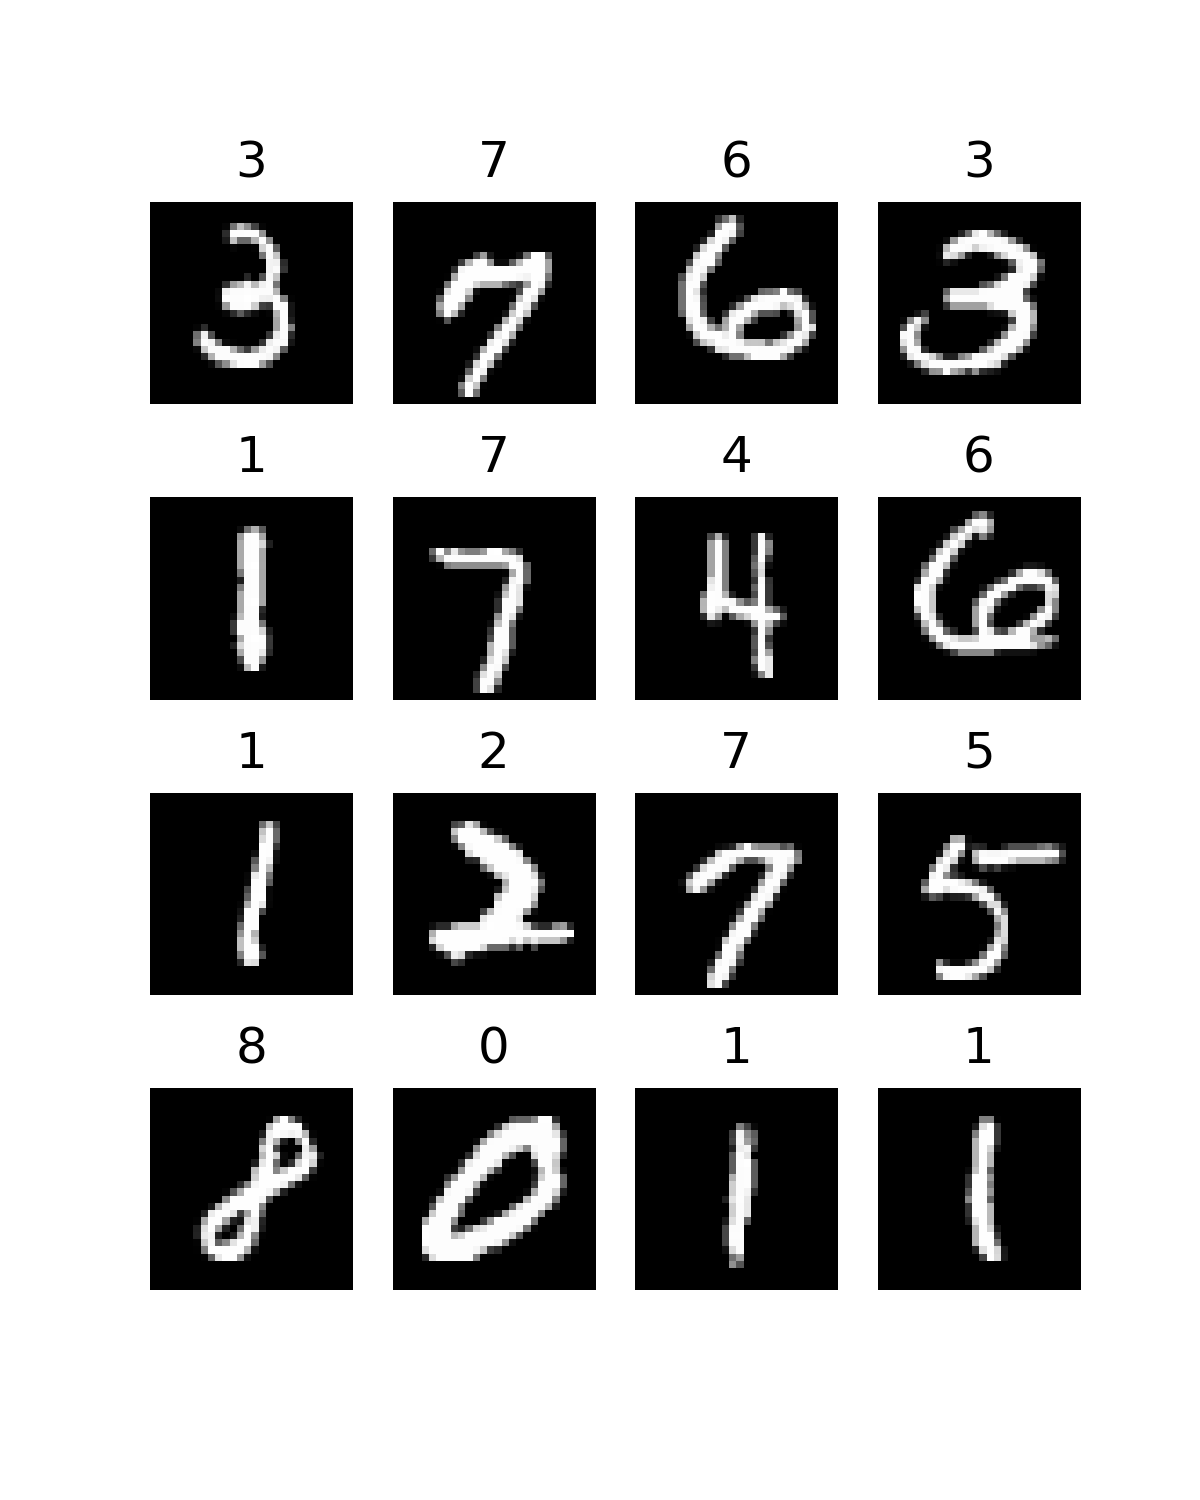
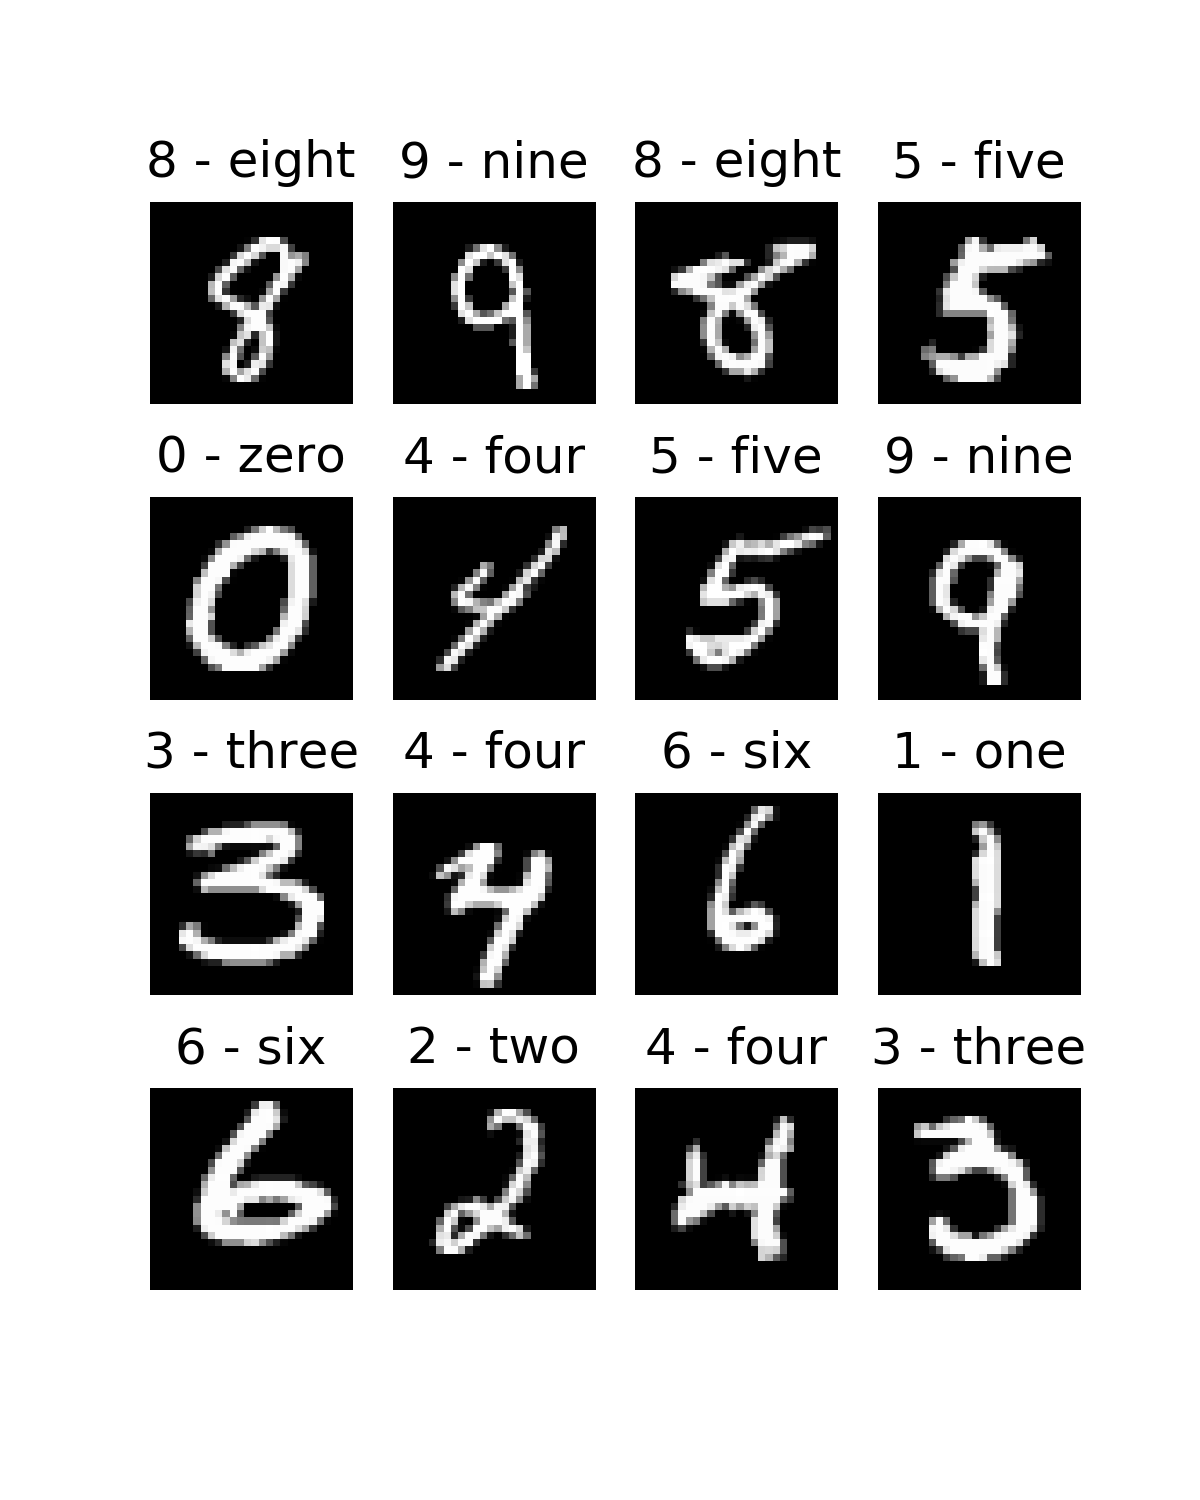
[2020-10-19] 이미지 수정 및 가독성 개선

diff --git a/_posts/2020-10-18-GAN-2-implementation-GAN.md b/_posts/2020-10-18-GAN-2-implementation-GAN.md
@@ -20,12 +20,12 @@ use_math: true
 
 > 이전 포스팅에서는 Generative Adversarial Network의 기본 알고리즘인 GAN과 DCGAN을 정리했습니다.  
 > 이번 포스팅에서는 PyTorch를 이용해 GAN 모델을 직접 구현해보도록 하겠습니다.
- 
+
 ## 구성
 
 본 구현에서는 단순한 이미지셋인 MNIST를 사용하여 GAN을 학습시키고자 합니다. GAN 모델은 Generative model \\(G\\)과 Discriminative model \\(D\\)를 번갈아가면서 업데이트해나갑니다.
 
-본 구현 코드의 구성은 아래와 같습니다.
+본 포스트의 구성은 아래와 같습니다.
 
 1. Load libraries
 2. MNIST dataset download
@@ -76,6 +76,18 @@ print('torchvision: ' + torchvision.__version__)
 > torch: 1.5.1  
 > torchvision: 0.6.1
 
+결과 재현을 위해 random seed를 설정합니다.
+```python
+import random
+
+# Set random seed for reproducibility
+manualSeed = 2020
+#manualSeed = random.randint(1, 10000) # use if you want new results
+print("Random Seed: ", manualSeed)
+random.seed(manualSeed)
+torch.manual_seed(manualSeed);
+```
+
 GPU를 사용할지 선택합니다. 사용 가능한 GPU가 있다면 `device` 변수에 *cuda*가, 없다면 *cpu*가 표시됩니다.
 ```python
 is_cuda = torch.cuda.is_available()
@@ -89,6 +101,7 @@ print(device)
 
 하이퍼파라미터 `batch_size` 를 설정합니다.
 ```python
+# hyper-parameter
 batch_size = 64
 ```
 
@@ -105,16 +118,26 @@ MNIST 데이터를 다운로드받습니다.
 ```python
 # MNIST dataset
 train_data = dsets.MNIST(root='../data/', train=True, transform=standardizer, download=True)
-test_data = dsets.MNIST(root='../data/', train=False, transform=standardizer, download=True)
 ```
 
 `batch_size` 단위로 이미지를 로드하기 위한 dataloader를 정의합니다.
 ```python
 train_data_loader = torch.utils.data.DataLoader(train_data, batch_size, shuffle=True)
-test_data_loader = torch.utils.data.DataLoader(test_data, batch_size, shuffle=True)
 ```
 
 제대로 로드가 되는지 확인하기 위해, 몇 개의 이미지를 시각화해봅니다.
+```python
+# function for visualization
+def tc_imshow(img, lbl=""):
+    if img.size(0) == 1:
+        plt.imshow(img.squeeze(), cmap='gray')
+    else:
+        plt.imshow(np.transpose(img, (1, 2, 0)))
+        
+    plt.title(lbl)
+    plt.axis('off')
+```
+
 ```python
 # visualize
 mini_batch_img, mini_batch_lbl = next(iter(train_data_loader))
@@ -122,9 +145,11 @@ mini_batch_img, mini_batch_lbl = next(iter(train_data_loader))
 plt.figure(figsize=(4,5))
 for i in range(16):
     plt.subplot(4,4,i+1)
-    plt.imshow(mini_batch_img[i].squeeze(), cmap='gray')
-    plt.title(mini_batch_lbl[i].numpy())
+    tc_imshow(img=mini_batch_img[i],
+              lbl=train_data.classes[mini_batch_lbl[i].numpy()])
     plt.axis('off')
+    
+plt.savefig('../result/GAN/1-GAN/1-dataloader-example.png', dpi=300)
 ```
 > ![GAN dataloader test]({{ site.url }}{{ site.baseurl }}/assets/images/post/DL/2020-10-18-GAN-implementation/2020-10-18-GAN-implementation-1-dataloader-example.png)
 
@@ -132,6 +157,7 @@ for i in range(16):
 
 하이퍼파라미터 `dim_noise`를 정의합니다. `dim_noise`는 latent space \\(z\\)의 차원을 의미합니다.
 ```python
+# hyper-parameter
 dim_noise = 100
 ```
 
@@ -152,12 +178,14 @@ def random_sample_z_space(batch_size=1, dim_noise=100):
 하이퍼파라미터 값에 따라 `dim_output`과 `img_shape` 변수가 정해집니다.
 
 ```python
+# hyper-paremeters
 dim_hidden = 256
-
 sz_output = 28
-dim_output = sz_output**2
-
 num_channels = 1
+```
+
+```python
+dim_output = sz_output**2
 img_shape = (num_channels, sz_output, sz_output)
 ```
 
@@ -187,7 +215,8 @@ class Generator(nn.Module):
 
 \\(G(z)\\)의 이미지를 그려봅니다. 아직 generator \\(G\\)가 학습되지 않은 상태이기 때문에, nosiy한 이미지만 출력됩니다.
 ```python
-plt.imshow(G(z)[0].squeeze().cpu().detach(), cmap='gray');
+# visualize
+utils.save_image(G(z)[:25].cpu().detach(), "../result/GAN/1-GAN/2-G(z).png", nrow=5, normalize=True)
 ```
 > ![GAN G(z) test]({{ site.url }}{{ site.baseurl }}/assets/images/post/DL/2020-10-18-GAN-implementation/2020-10-18-GAN-implementation-2-G(z).png)
 
@@ -201,10 +230,10 @@ class Discriminator(nn.Module):
         
         self.model = nn.Sequential(
             nn.Linear(dim_output, dim_hidden),
-            nn.LeakyReLU(),
+            nn.LeakyReLU(0.2),
             nn.Dropout(0.1),
             nn.Linear(dim_hidden, dim_hidden),
-            nn.LeakyReLU(),
+            nn.LeakyReLU(0.2),
             nn.Dropout(0.1),
             nn.Linear(dim_hidden, 1),
             nn.Sigmoid()    
@@ -230,9 +259,12 @@ discriminator = Discriminator().to(device)
 
 하이퍼파라미터 `learning_rate`를 정의합니다.
 - `learning_rate`: optimizer에 사용되는 learning rate입니다.
+- `beta1`: Adam optimizer에 사용되는 momentum parameter입니다.
 
 ```python
+# hyper-parameter
 learning_rate = 0.0002
+beta1 = 0.9
 ```
 
 Loss function은 Binary Cross Entropy (BCE)를 사용합니다. PyTorch 내장함수인 ``torch.nn.BCELoss()`를 이용합니다.
@@ -242,8 +274,8 @@ adversarial_loss = nn.BCELoss()
 
 optimizer는 각 모델별로 정의합니다. Adam optimizer를 사용합니다.
 ```python
-optimizer_G = optim.Adam(generator.parameters(), lr=learning_rate)
-optimizer_D = optim.Adam(discriminator.parameters(), lr=learning_rate)
+optimizer_G = optim.Adam(generator.parameters(), lr=learning_rate, betas=(beta1, 0.999))
+optimizer_D = optim.Adam(discriminator.parameters(), lr=learning_rate, betas=(beta1, 0.999))
 ```
 
 6.3 Train models
@@ -253,8 +285,9 @@ optimizer_D = optim.Adam(discriminator.parameters(), lr=learning_rate)
 - `interval_save_img`: 이미지 생성 결과를 저장할 인터벌을 정의합니다. 일정 batch size마다 이미지가 저장되어 생성모델의 학습과정을 확인할 수 있습니다.
 
 ```python
+# hyper-parameters
 num_epochs = 200
-interval_save_img = 400
+interval_save_img = 1000
 ```
 
 FloatTensor모델을 정의합니다. 연산 시 변수들의 데이터 타입을 맞춰주기 위함입니다.
@@ -278,6 +311,8 @@ Tensor = torch.cuda.FloatTensor if is_cuda else torch.FloatTensor
 10. `interval_save_img`에 따라 생성 이미지 저장
 
 ```python
+losses = []
+
 for idx_epoch in range(num_epochs):
     for idx_batch, (imgs, _) in enumerate(train_data_loader):
         # Ground truth variables indicating real/fake
@@ -319,6 +354,9 @@ for idx_epoch in range(num_epochs):
         
         
         #####################
+        # archieve loss
+        losses.append([loss_G.item(), loss_D.item()])
+        
         # Print progress
         if idx_batch % 10 == 0:
             print("[Epoch {}/{}] [Batch {}/{}] loss_G: {:.6f}, loss_D: {:.6f}".format(idx_epoch, num_epochs,
@@ -327,7 +365,7 @@ for idx_epoch in range(num_epochs):
                     
         batches_done = idx_epoch * len(train_data_loader) + idx_batch
         if batches_done % interval_save_img == 0:
-            utils.save_image(gen_imgs.data[:25], "../result/GAN/1-GAN/4-{}.png".format(batches_done), nrow=5, normalize=True)
+            utils.save_image(gen_imgs.data[:25], "../result/GAN/1-GAN/3-{}.png".format(batches_done), nrow=5, normalize=True)
 ```
 
 > Generative model이 점차 학습되어 가는 것을 확인할 수 있습니다.  
@@ -337,6 +375,18 @@ for idx_epoch in range(num_epochs):
 > ![GAN G(z) result]({{ site.url }}{{ site.baseurl }}/assets/images/post/DL/2020-10-18-GAN-implementation/2020-10-18-GAN-implementation-4-14400.png)  
 > ![GAN G(z) result]({{ site.url }}{{ site.baseurl }}/assets/images/post/DL/2020-10-18-GAN-implementation/2020-10-18-GAN-implementation-4-78400.png)  
 > ![GAN G(z) result]({{ site.url }}{{ site.baseurl }}/assets/images/post/DL/2020-10-18-GAN-implementation/2020-10-18-GAN-implementation-4-144400.png)  
+
+이미지 생성 결과를 시각화해봅니다.
+```python
+# Random sample noise
+z = random_sample_z_space(batch_size)
+
+# Generate image
+gen_imgs = generator(z)
+
+# visualize
+utils.save_image(gen_imgs.data[:25].cpu().detach(), "../result/GAN/1-GAN/4-fake-images.png", nrow=5, normalize=True)
+```
 
 6.4 Save model weights
 
@@ -350,6 +400,7 @@ torch.save({
     'optimizer_D_state_dict': optimizer_D.state_dict()
 }, '../result/GAN/1-GAN/model_weights.pth')
 ```
+
 ## 7. Visualization (Interpolation)
 
 Interpolation 그림을 그려봅시다.
